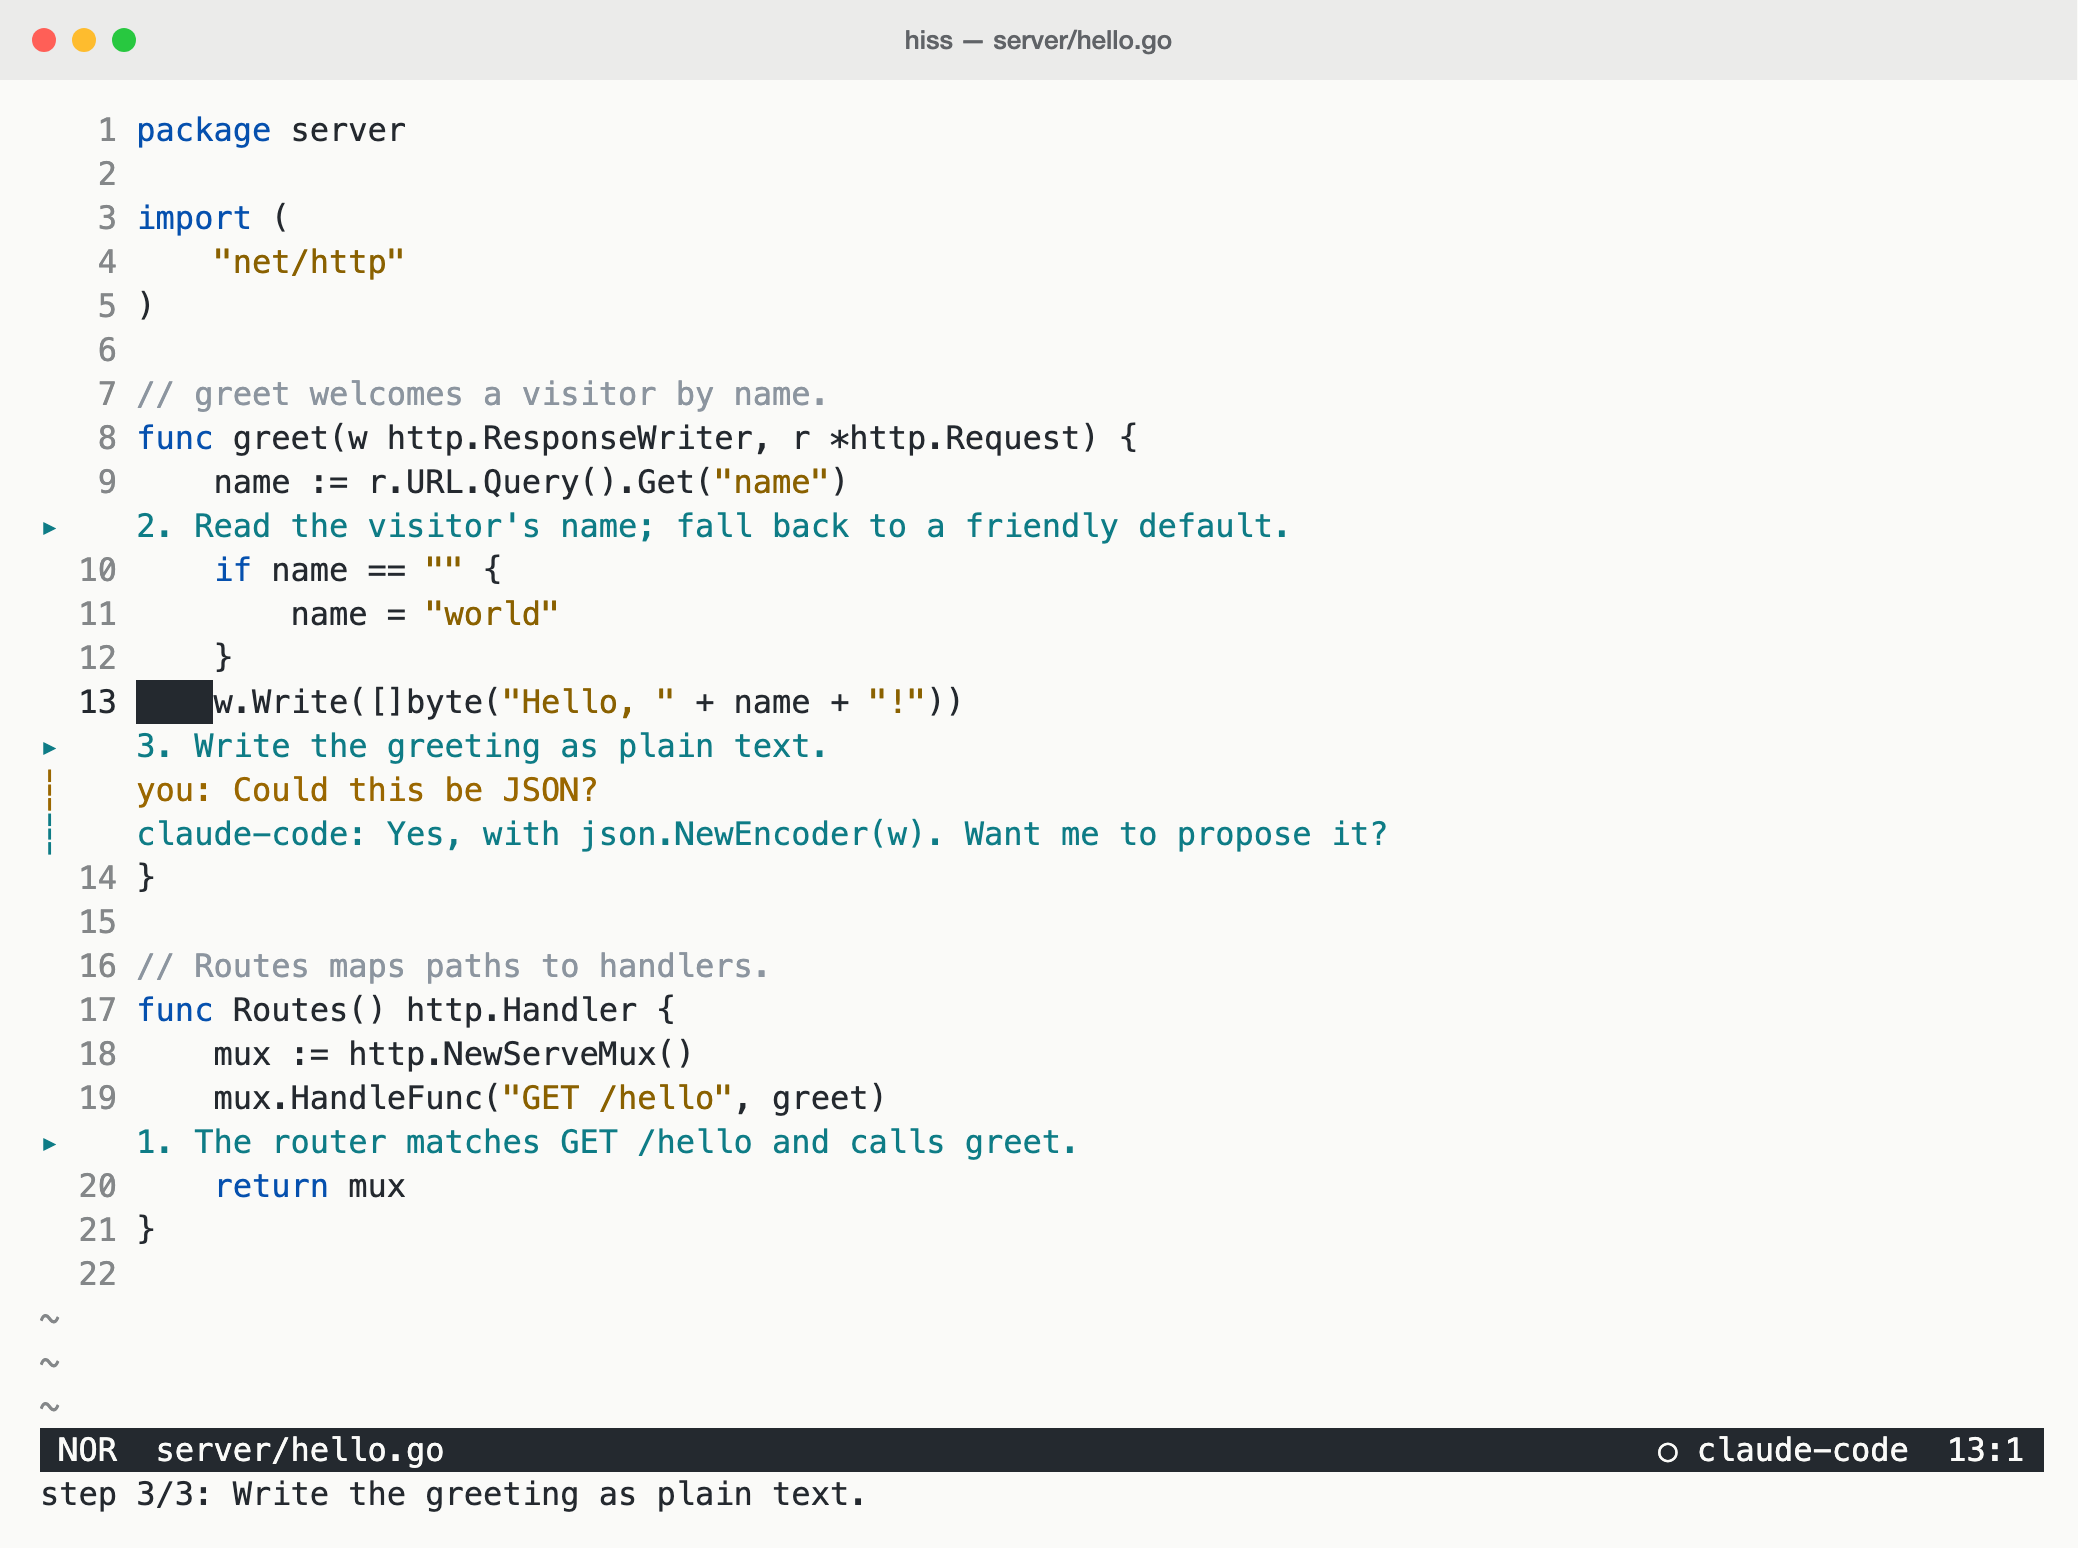
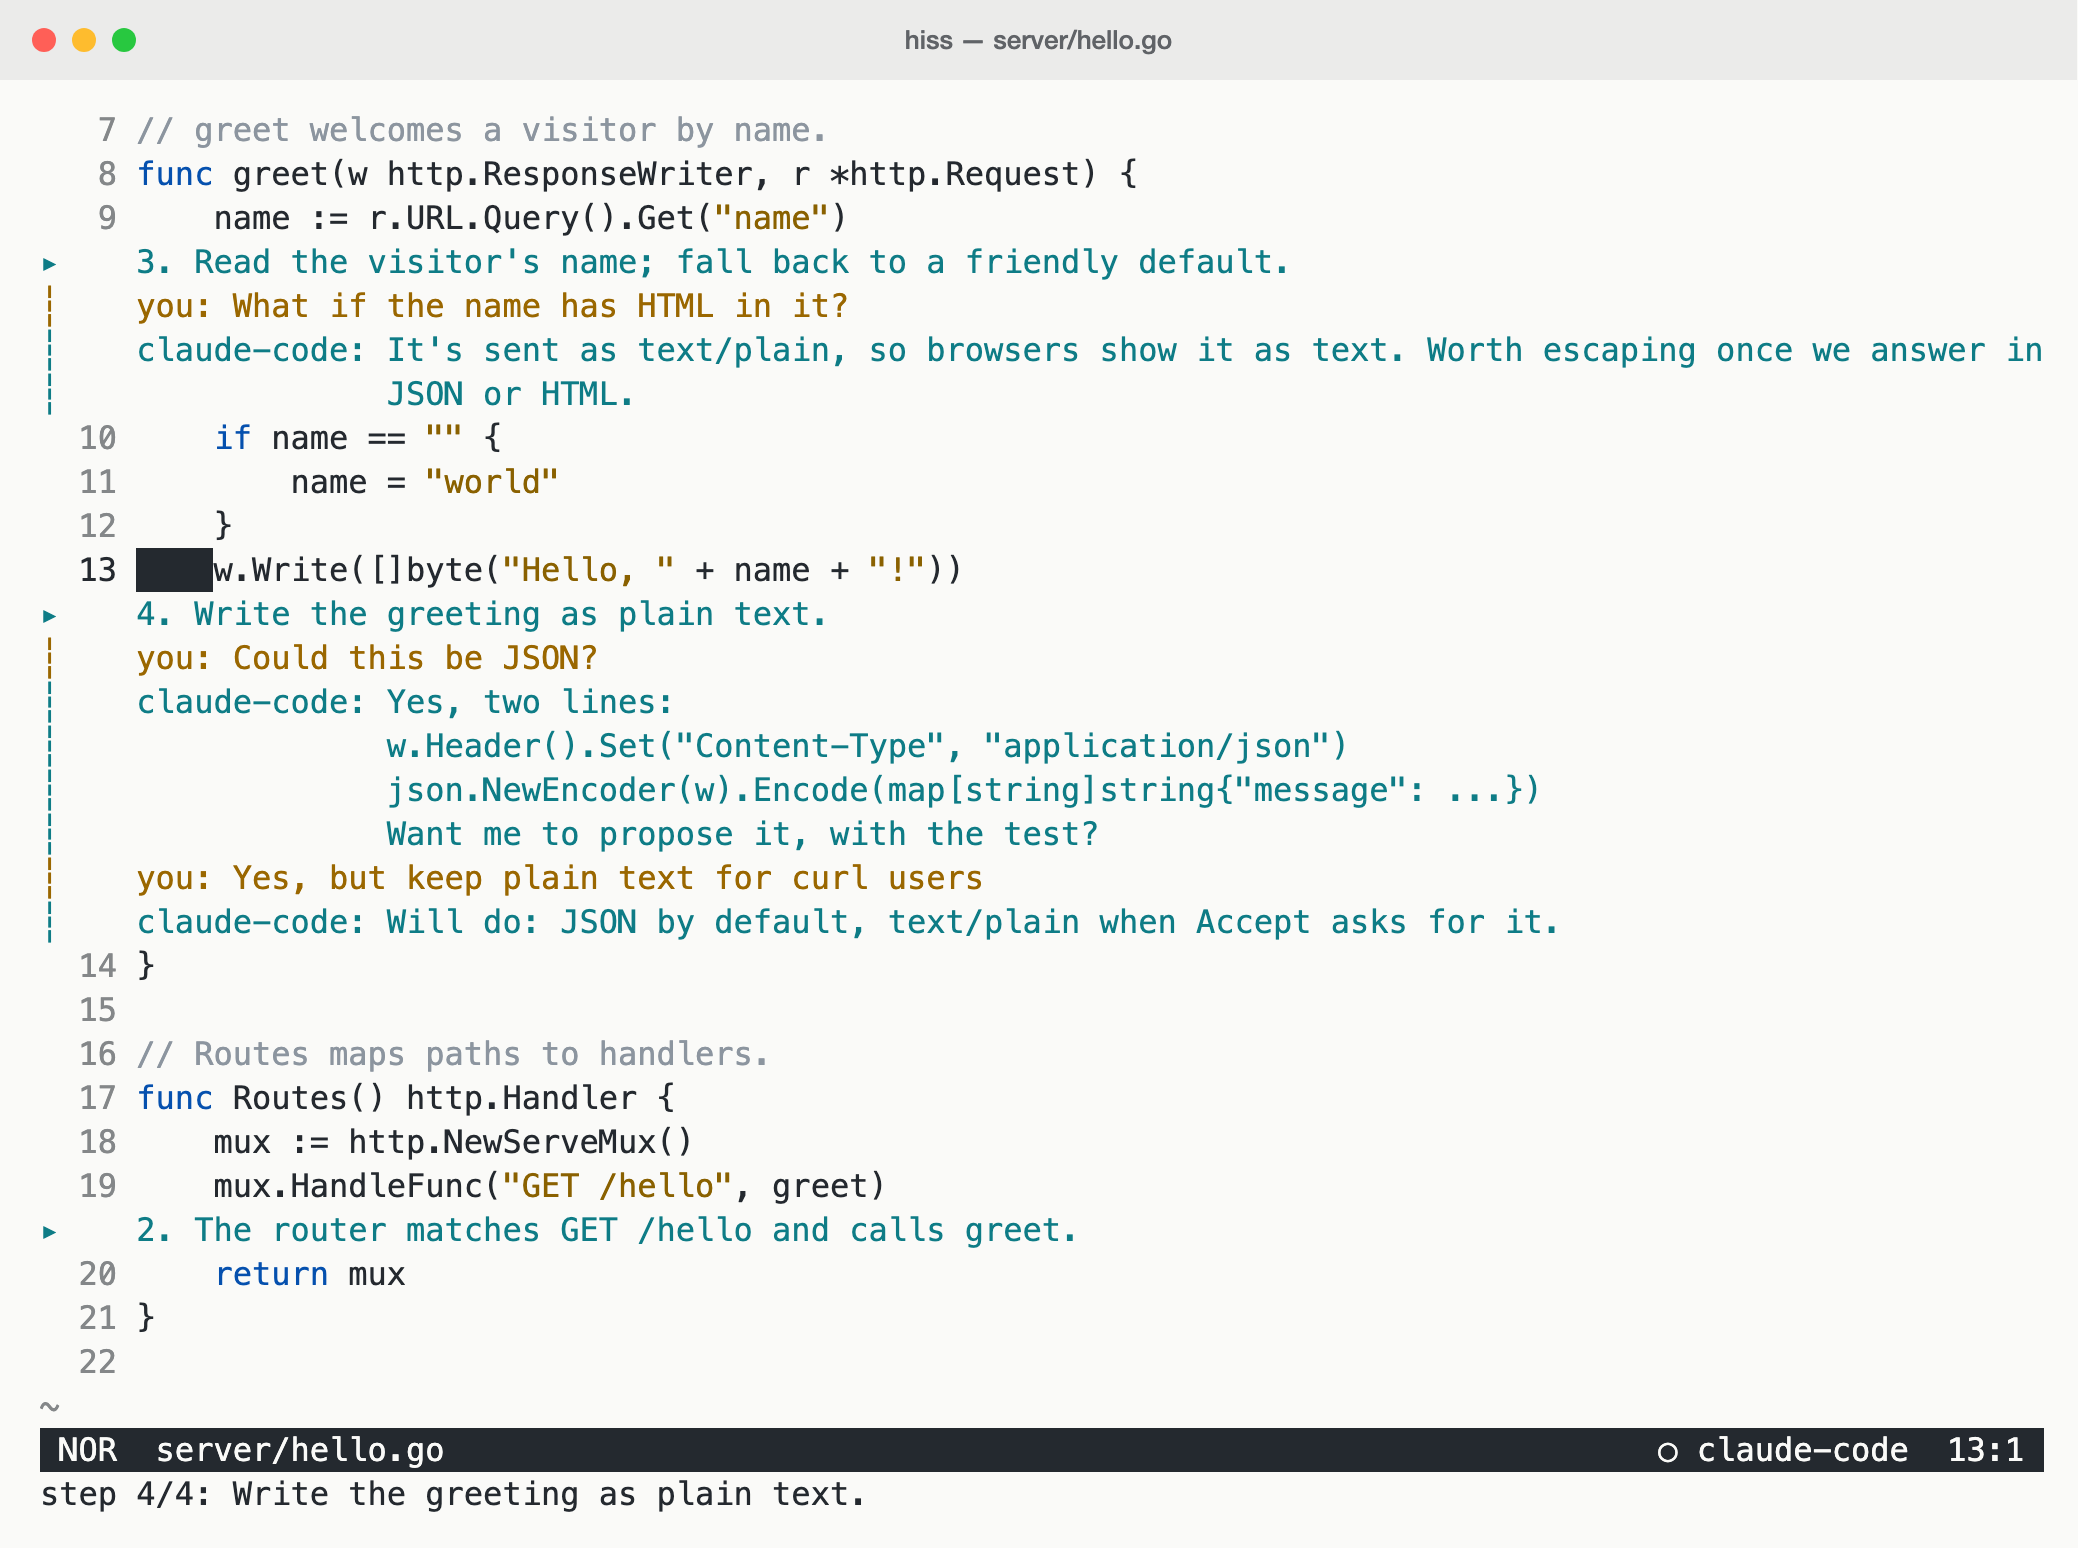
Show HTTP and SQL runs and a trail discussion in the screenshots
The Go test shot gives way to two runs from saved files in .hiss/runs:
curl against a local stand-in for staging, which asks first, and
sqlite3 on dev. The code tour now spans two files with a discussion
with Claude on two steps. Run shots skip the user's ~/.curlrc and
~/.sqliterc.

diff --git a/internal/ui/shots_test.go b/internal/ui/shots_test.go
@@ -12,7 +12,10 @@ import (
 	"flag"
 	"fmt"
 	"html"
+	"net/http"
+	"net/http/httptest"
 	"os"
+	"os/exec"
 	"path/filepath"
 	"strings"
 	"testing"
@@ -159,6 +162,101 @@ func (s *studio) propose(t *testing.T, rel, old, new, why string) *core.Proposal
 	return ps[0]
 }
 
+// write writes files into the fixture project.
+func (s *studio) write(t *testing.T, files map[string]string) {
+	t.Helper()
+	for rel, content := range files {
+		if err := os.MkdirAll(filepath.Dir(s.path(rel)), 0o755); err != nil {
+			t.Fatal(err)
+		}
+		if err := os.WriteFile(s.path(rel), []byte(content), 0o644); err != nil {
+			t.Fatal(err)
+		}
+	}
+}
+
+// runKeys presses keys that start a run, and any after it (such as y at a
+// confirm prompt), then waits for the run to finish.
+func (s *studio) runKeys(t *testing.T, keys ...string) {
+	t.Helper()
+	ch := make(chan func(*core.Editor), 64)
+	s.ed.Post = func(f func(*core.Editor)) { ch <- f }
+	s.keys(keys...)
+	timeout := time.After(60 * time.Second)
+	for s.ed.Running() != "" {
+		select {
+		case f := <-ch:
+			f(s.ed)
+		case <-timeout:
+			t.Fatal("run timed out")
+		}
+	}
+}
+
+// runRules is the fixture's .hissrun: two environments, staging asking first,
+// and rules for SQL and HTTP.
+const runRules = `[env]
+name   = dev
+source = .hiss/env/dev.sh
+
+[env]
+name    = staging
+source  = .hiss/env/staging.sh
+confirm = true
+
+[sql]
+match = *.sql
+cmd   = sqlite3 -init /dev/null -header -column "$DB"
+share = true
+
+[http]
+match = *.http
+cmd   = sh
+`
+
+const helloHTTP = `# Requests against the greet service. $BASE_URL and $TOKEN come from the
+# active env: :env staging, or :env dev for localhost.
+
+# Is it up?
+curl -sS "$BASE_URL/healthz"
+
+# Greet Ada, with the response headers.
+curl -sS -i "$BASE_URL/hello?name=Ada" \
+  -H "Authorization: Bearer $TOKEN" \
+  -H "Accept: application/json"
+
+# Without a name, the default greeting.
+curl -sS "$BASE_URL/hello" \
+  -H "Authorization: Bearer $TOKEN"
+
+# Record a visit.
+curl -sS -X POST "$BASE_URL/visits" \
+  -H "Authorization: Bearer $TOKEN" \
+  -H "Content-Type: application/json" \
+  -d '{"name": "Ada"}'
+`
+
+const visitorsSQL = `-- Queries against the greet database, $DB in the active env.
+
+-- Visitors in the last week.
+SELECT count(*) AS recent
+FROM visitors
+WHERE last_seen >= '2026-10-29';
+
+-- Who comes back most, and when we last saw them.
+SELECT name, visits, last_seen
+FROM visitors
+WHERE visits > 1
+ORDER BY visits DESC
+LIMIT 5;
+
+-- Names greeted only once: typos, or bots?
+SELECT name, last_seen
+FROM visitors
+WHERE visits = 1
+ORDER BY last_seen;
+`
+
 // turn starts an agent turn whose tool calls follow.
 func (s *studio) turn() {
 	s.ed.Hook(core.HookEvent{SessionID: "s1", Event: "UserPromptSubmit"})
@@ -200,6 +298,7 @@ var scenes = []scene{
 		s.open(t, "server/hello.go")
 		s.turn()
 		err := s.ed.ShowTrail(core.HookAgent, "How a request becomes a response", []core.StepInput{
+			{Path: s.path("cmd/greet/main.go"), Line: 11, Note: "main serves the routes on :8080."},
 			{Path: s.path("server/hello.go"), Line: 19, Note: "The router matches GET /hello and calls greet."},
 			{Path: s.path("server/hello.go"), Line: 9, Note: "Read the visitor's name; fall back to a friendly default."},
 			{Path: s.path("server/hello.go"), Line: 13, Note: "Write the greeting as plain text."},
@@ -208,12 +307,24 @@ var scenes = []scene{
 			t.Fatal(err)
 		}
 		s.ed.Hook(core.HookEvent{SessionID: "s1", Event: "Stop"})
-		s.keys("]", "s", "]", "s", "]", "s", "#")
-		s.typeText("Could this be JSON?")
-		s.keys("enter")
-		if err := s.ed.ReplyStep(core.HookAgent, 3, "Yes, with json.NewEncoder(w). Want me to propose it?"); err != nil {
-			t.Fatal(err)
+		comment := func(text string) {
+			s.keys("#")
+			s.typeText(text)
+			s.keys("enter")
 		}
+		reply := func(n int, text string) {
+			if err := s.ed.ReplyStep(core.HookAgent, n, text); err != nil {
+				t.Fatal(err)
+			}
+		}
+		s.keys("]", "s", "]", "s", "]", "s")
+		comment("What if the name has HTML in it?")
+		reply(3, "It's sent as text/plain, so browsers show it as text. Worth escaping once we answer in JSON or HTML.")
+		s.keys("]", "s")
+		comment("Could this be JSON?")
+		reply(4, "Yes, two lines:\nw.Header().Set(\"Content-Type\", \"application/json\")\njson.NewEncoder(w).Encode(map[string]string{\"message\": ...})\nWant me to propose it, with the test?")
+		comment("Yes, but keep plain text for curl users")
+		reply(4, "Will do: JSON by default, text/plain when Accept asks for it.")
 		s.keys("[", "s", "]", "s")
 	}},
 	{"fuzzy-finder", func(t *testing.T, s *studio) {
@@ -236,29 +347,54 @@ var scenes = []scene{
 			[]string{"Yes, under GET /hello.txt", "Yes, when Accept is text/plain", "No, JSON only"})
 		s.keys("down")
 	}},
-	{"run", func(t *testing.T, s *studio) {
-		s.open(t, "server/hello_test.go")
-		_, _, test := s.jsonChange(t)
-		s.ed.Hook(core.HookEvent{SessionID: "s1", Event: "Stop"})
-		s.ed.SwitchTo(test.Buf)
-		s.keys("g", "g", "]", "h", "+", "esc") // accept the test; the handler is still pending
-		s.open(t, "server/hello_test.go")
-		s.keys("g", "g", "j", "j", "j", "j", "j", "j", "j", "j", "j")
-		if err := os.WriteFile(s.path(".hissrun"), []byte("[env]\nname = dev\n"), 0o600); err != nil {
-			t.Fatal(err)
-		}
-		ch := make(chan func(*core.Editor), 64)
-		s.ed.Post = func(f func(*core.Editor)) { ch <- f }
-		s.keys("enter")
-		timeout := time.After(60 * time.Second)
-		for s.ed.Running() != "" {
-			select {
-			case f := <-ch:
-				f(s.ed)
-			case <-timeout:
-				t.Fatal("run timed out")
+	{"run-http", func(t *testing.T, s *studio) {
+		// A stand-in for the staging server: the JSON greeting, without a
+		// Date header so the shot stays the same.
+		srv := httptest.NewServer(http.HandlerFunc(func(w http.ResponseWriter, r *http.Request) {
+			name := r.URL.Query().Get("name")
+			if name == "" {
+				name = "world"
 			}
+			w.Header()["Date"] = nil
+			w.Header().Set("Content-Type", "application/json")
+			fmt.Fprintf(w, "{\"message\":\"Hello, %s!\"}\n", name)
+		}))
+		t.Cleanup(srv.Close)
+		s.write(t, map[string]string{
+			".hissrun":              runRules,
+			".hiss/env/dev.sh":      "BASE_URL=http://localhost:8080\nTOKEN=dev\n",
+			".hiss/env/staging.sh":  "BASE_URL=" + srv.URL + "\nTOKEN=$(cat ~/.config/greet/staging-token 2>/dev/null)\n",
+			".hiss/runs/hello.http": helloHTTP,
+		})
+		t.Setenv("HOME", t.TempDir()) // no ~/.curlrc
+		s.open(t, ".hiss/runs/hello.http")
+		s.ed.HandleKey(":")
+		s.typeText("env staging")
+		s.keys("enter")
+		s.ed.HandleKey(":")
+		s.typeText("8")
+		s.keys("enter")
+		s.runKeys(t, "enter", "y") // staging asks first
+	}},
+	{"run-sql", func(t *testing.T, s *studio) {
+		db := filepath.Join(t.TempDir(), "greet.db")
+		seed := `CREATE TABLE visitors (name TEXT, visits INT, last_seen TEXT);
+INSERT INTO visitors VALUES ('Ada', 42, '2026-11-04'), ('Grace', 17, '2026-11-02'),
+  ('Linus', 9, '2026-10-30'), ('Barbara', 6, '2026-10-21'), ('Ken', 3, '2026-11-01'), ('Dennis', 1, '2026-09-12');`
+		if out, err := exec.Command("sqlite3", db, seed).CombinedOutput(); err != nil {
+			t.Fatalf("seeding: %v: %s", err, out)
 		}
+		s.write(t, map[string]string{
+			".hissrun":                runRules,
+			".hiss/env/dev.sh":        "DB=" + db + "\n",
+			".hiss/env/staging.sh":    "DB=staging.db\n",
+			".hiss/runs/visitors.sql": visitorsSQL,
+		})
+		s.open(t, ".hiss/runs/visitors.sql")
+		s.ed.HandleKey(":")
+		s.typeText("10")
+		s.keys("enter")
+		s.runKeys(t, "enter")
 	}},
 }
 

diff --git a/README.md b/README.md
@@ -24,12 +24,31 @@ Review a change set hunk by hunk, and discuss it inline.
   <img alt="An inline review in hiss: Claude proposes a JSON response as a set of three hunks; one is accepted, and a comment thread under the next asks about errors." src="docs/screenshots/review-light.png" width="600">
 </picture></a>
 
-Follow a guided code tour, with notes anchored to the relevant lines.
+Ask Claude to walk you through code: it shares a trail of steps anchored to the
+lines, and you discuss each step with it in place.
 
 <a href="docs/screenshots/code-tour-light.png"><picture>
   <source media="(prefers-color-scheme: dark)" srcset="docs/screenshots/code-tour-dark.png">
   <source media="(prefers-color-scheme: light)" srcset="docs/screenshots/code-tour-light.png">
-  <img alt="A guided code tour in hiss: Claude explains how a request becomes a response in three inline steps, and answers a comment on the last one." src="docs/screenshots/code-tour-light.png" width="600">
+  <img alt="A trail in hiss: Claude explains how a request becomes a response in four steps across two files. Under step 3 the user asks about HTML in names and Claude answers; under step 4 they agree on a JSON response that keeps plain text for curl users." src="docs/screenshots/code-tour-light.png" width="600">
+</picture></a>
+
+Send the HTTP request under the cursor with `enter`, in the environment you
+pick; staging asks first.
+
+<a href="docs/screenshots/run-http-light.png"><picture>
+  <source media="(prefers-color-scheme: dark)" srcset="docs/screenshots/run-http-dark.png">
+  <source media="(prefers-color-scheme: light)" srcset="docs/screenshots/run-http-light.png">
+  <img alt="An HTTP run in hiss: a file of saved curl requests, with the staging environment active; enter on the greeting request shows its response headers and JSON body in a panel below." src="docs/screenshots/run-http-light.png" width="600">
+</picture></a>
+
+Run a SQL query the same way, against the active env's database; tests and
+scripts too. Claude sees the result when the rule shares it.
+
+<a href="docs/screenshots/run-sql-light.png"><picture>
+  <source media="(prefers-color-scheme: dark)" srcset="docs/screenshots/run-sql-dark.png">
+  <source media="(prefers-color-scheme: light)" srcset="docs/screenshots/run-sql-light.png">
+  <img alt="A SQL run in hiss: a file of saved queries on the dev environment; enter on the second query shows the five most frequent visitors as a table in the panel." src="docs/screenshots/run-sql-light.png" width="600">
 </picture></a>
 
 Answer Claude's questions without leaving the editor.
@@ -38,14 +57,6 @@ Answer Claude's questions without leaving the editor.
   <source media="(prefers-color-scheme: dark)" srcset="docs/screenshots/ask-dark.png">
   <source media="(prefers-color-scheme: light)" srcset="docs/screenshots/ask-light.png">
   <img alt="A question popup in hiss: Claude asks whether to keep the plain-text greeting, offering three answers over the pending hunks." src="docs/screenshots/ask-light.png" width="600">
-</picture></a>
-
-Run the test under the cursor with `enter`; Claude sees the result too.
-
-<a href="docs/screenshots/run-light.png"><picture>
-  <source media="(prefers-color-scheme: dark)" srcset="docs/screenshots/run-dark.png">
-  <source media="(prefers-color-scheme: light)" srcset="docs/screenshots/run-light.png">
-  <img alt="A test run in hiss: enter on TestGreet streams go test output into a panel, which notes the run didn't include two pending hunks." src="docs/screenshots/run-light.png" width="600">
 </picture></a>
 
 Find the change you want to review with the fuzzy hunk picker (`space h`).
